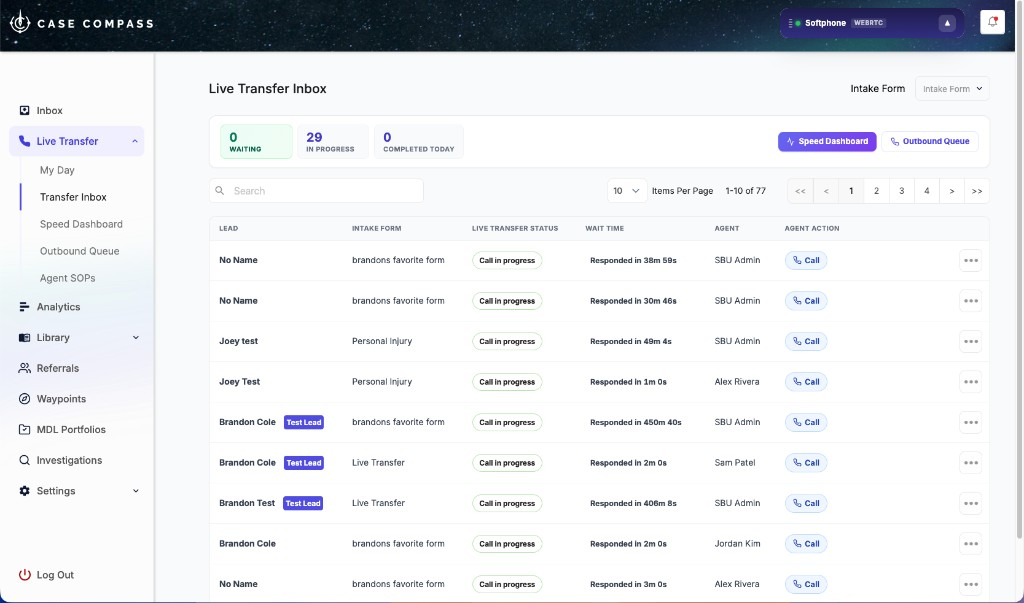
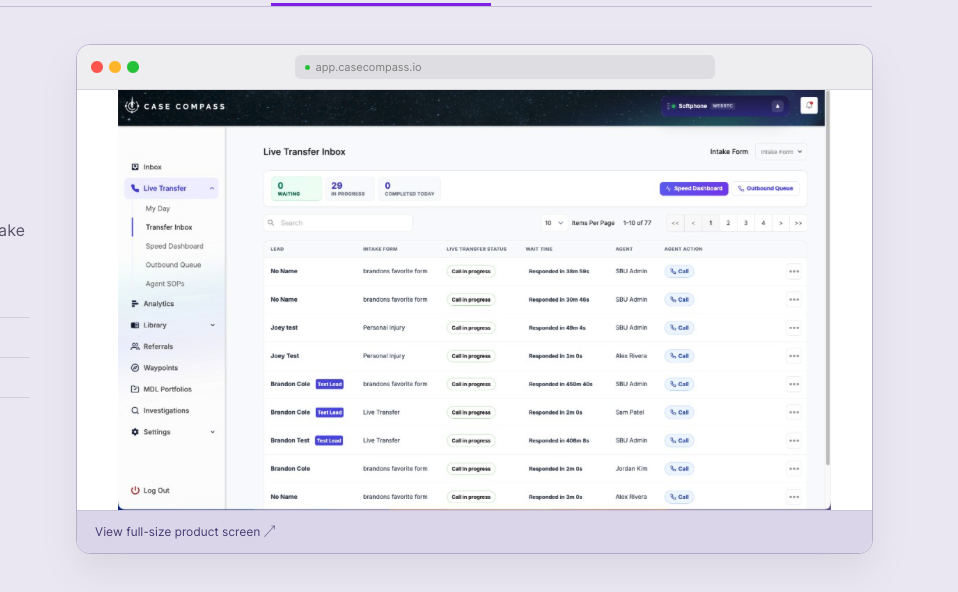
Refresh Agent Workforce and IntakeOS product screenshots.
Use the provided Live Transfer and analytics shots as-is, avoid nesting chrome on framed screenshots, and stop cover-cropping hero imagery.

diff --git a/app/solutions/agent-platform/page.tsx b/app/solutions/agent-platform/page.tsx
@@ -6,7 +6,6 @@ import AnnouncementBanner from '@/components/AnnouncementBanner'
 import Nav from '@/components/nav/Nav'
 import Footer from '@/components/Footer'
 import { useDemoModal } from '@/components/DemoModalProvider'
-import BrowserFrame from '@/components/ui/BrowserFrame'
 import ExpandableBrowserFrame from '@/components/ui/ExpandableBrowserFrame'
 import '../../dwellex/dwellex.css'
 import '../referrals/referrals.css'
@@ -152,15 +151,12 @@ export default function AgentPlatformPage() {
                 </div>
               </div>
               <div className="rf-hero-shot">
-                <BrowserFrame url="app.casecompass.io/live-transfer">
-                  {/* eslint-disable-next-line @next/next/no-img-element */}
-                  <img
-                    src="/images/agent-platform-live-transfer-inbox.png"
-                    width={1600}
-                    height={1000}
-                    alt="Case Compass Live Transfer Inbox"
-                  />
-                </BrowserFrame>
+                <ExpandableBrowserFrame
+                  url="app.casecompass.io/live-transfer"
+                  src="/images/agent-platform-live-transfer-inbox.png"
+                  alt="Case Compass Live Transfer Inbox"
+                  framed={false}
+                />
               </div>
             </div>
           </section>
@@ -241,6 +237,7 @@ export default function AgentPlatformPage() {
                   url="app.casecompass.io"
                   src={feature.img}
                   alt={feature.imgAlt}
+                  framed={tab !== 'transfer'}
                 />
               </article>
               <p className="rf-feature-note">{feature.note}</p>

diff --git a/components/ui/ExpandableBrowserFrame.tsx b/components/ui/ExpandableBrowserFrame.tsx
@@ -11,6 +11,8 @@ type ExpandableBrowserFrameProps = {
   url: string
   footer?: ReactNode
   className?: string
+  /** When true, the image already includes browser chrome — skip nested frame */
+  framed?: boolean
 }
 
 export default function ExpandableBrowserFrame({
@@ -19,6 +21,7 @@ export default function ExpandableBrowserFrame({
   url,
   footer = 'View full-size product screen',
   className = '',
+  framed = true,
 }: ExpandableBrowserFrameProps) {
   const [open, setOpen] = useState(false)
   const titleId = useId()
@@ -45,10 +48,17 @@ export default function ExpandableBrowserFrame({
         onClick={() => setOpen(true)}
         aria-label="View full-size product screenshot"
       >
-        <BrowserFrame url={url} footer={<>{footer} <span aria-hidden="true">↗</span></>}>
-          {/* eslint-disable-next-line @next/next/no-img-element */}
-          <img src={src} alt={alt} loading="lazy" />
-        </BrowserFrame>
+        {framed ? (
+          <BrowserFrame url={url} footer={<>{footer} <span aria-hidden="true">↗</span></>}>
+            {/* eslint-disable-next-line @next/next/no-img-element */}
+            <img src={src} alt={alt} loading="lazy" />
+          </BrowserFrame>
+        ) : (
+          <span className="cc-shot-bare">
+            {/* eslint-disable-next-line @next/next/no-img-element */}
+            <img src={src} alt={alt} loading="lazy" />
+          </span>
+        )}
       </button>
 
       {open && (

diff --git a/components/ui/browser-frame.css b/components/ui/browser-frame.css
@@ -62,6 +62,20 @@
   width: 100%;
   height: auto;
 }
+
+/* Screenshot already includes its own chrome — don't nest another frame */
+.cc-shot-bare {
+  display: block;
+  border-radius: 14px;
+  overflow: hidden;
+  background: #fff;
+  box-shadow: 0 18px 35px #27234415, 0 0 0 1px #c4bdd6;
+}
+.cc-shot-bare > img {
+  display: block;
+  width: 100%;
+  height: auto;
+}
 .cc-browser-footer {
   display: block;
   padding: 13px 18px;

diff --git a/app/intakeos/page.tsx b/app/intakeos/page.tsx
@@ -147,8 +147,8 @@ const features: Record<Tab, {
       'Team and channel performance',
       'Exportable reporting for marketing and ops',
     ],
-    img: '/images/referrals-reporting.png',
-    imgAlt: 'Case Compass reporting dashboard with intake and conversion analytics',
+    img: '/images/intake-analytics.png',
+    imgAlt: 'Intake analytics with end-status breakdown and marketing funnel',
   },
 }
 

diff --git a/app/dwellex/dwellex.css b/app/dwellex/dwellex.css
@@ -257,7 +257,7 @@
 .dw-feature-image img {
   width: 100%;
   height: auto;
-  max-height: 420px;
+  max-height: 560px;
   object-fit: contain;
 }
 .dw-feature-image > span {
@@ -268,7 +268,7 @@
   font-size: 0.75rem;
 }
 .dw-feature .cc-browser-body img {
-  max-height: 420px;
+  max-height: 560px;
   object-fit: contain;
   object-position: top;
 }

diff --git a/app/solutions/referrals/referrals.css b/app/solutions/referrals/referrals.css
@@ -59,8 +59,10 @@
   margin-top: 8px;
 }
 .rf-hero-shot .cc-browser-body img {
-  max-height: 520px;
-  object-fit: cover;
+  max-height: none;
+  width: 100%;
+  height: auto;
+  object-fit: contain;
   object-position: top;
 }
 .rf-directions {
